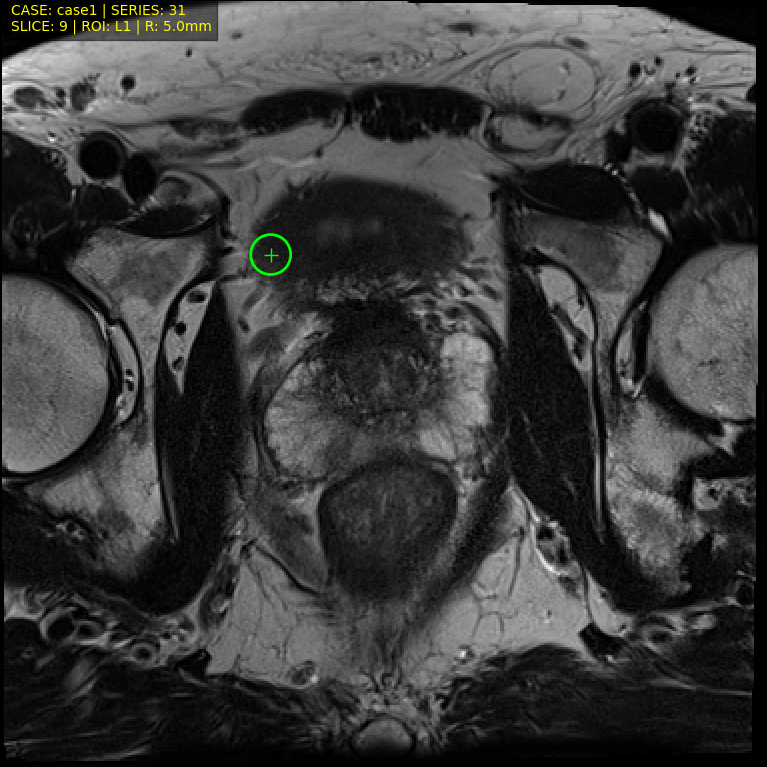
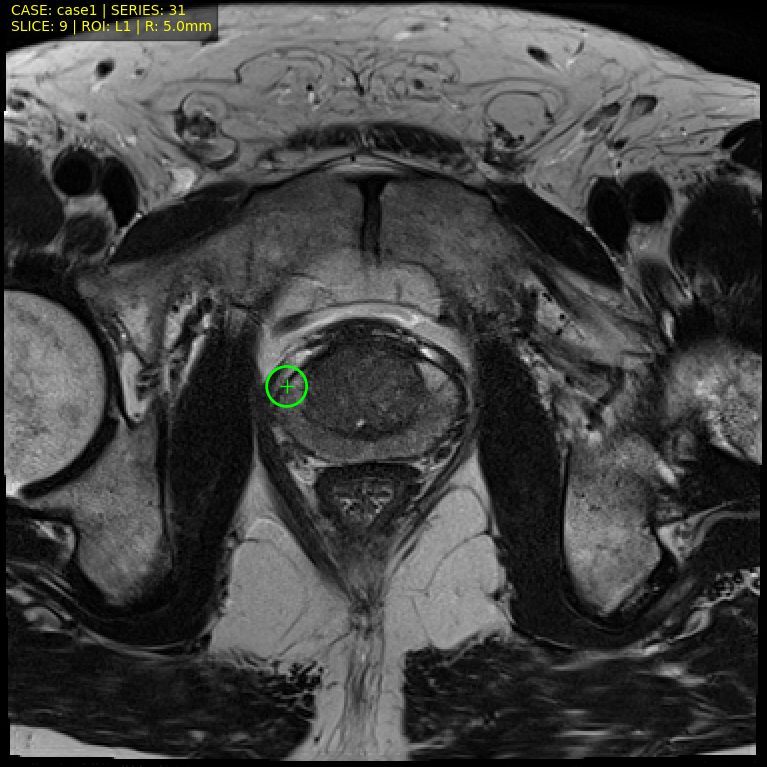
Versão 3 multi-planar e viewer, ambos melhorados

diff --git a/viewer/viewer_app.py b/viewer/viewer_app.py
@@ -153,6 +153,7 @@ class ViewerApp:
         self.ax_sag = None
         self.ax_cor = None
         self.ax_info = None
+        self.ax_sidebar = None
         self.ax = None
         
         # Export Info
@@ -663,18 +664,25 @@ class ViewerApp:
         plt.rcParams['keymap.quit'] = ''
 
         self.fig = plt.figure(figsize=(16, 10))
-        gs = self.fig.add_gridspec(2, 3, width_ratios=[1.15, 1.15, 0.70], height_ratios=[1.05, 1.00])
-        
-        self.ax_axial = self.fig.add_subplot(gs[0, 0])
-        self.ax_sag = self.fig.add_subplot(gs[0, 1])
-        self.ax_cor = self.fig.add_subplot(gs[1, 0:2])
-        self.ax_info = self.fig.add_subplot(gs[:, 2])
+        self.fig.patch.set_facecolor("#222222")
+        gs = self.fig.add_gridspec(2, 3, width_ratios=[1.0, 1.6, 1.6], height_ratios=[1.0, 1.0])
+
+        self.ax_sidebar = self.fig.add_subplot(gs[:, 0])
+        self.ax_axial = self.fig.add_subplot(gs[0, 1])
+        self.ax_info = self.fig.add_subplot(gs[0, 2])
+        self.ax_cor = self.fig.add_subplot(gs[1, 1])
+        self.ax_sag = self.fig.add_subplot(gs[1, 2])
         self.ax = self.ax_axial
-        
-        self.ax_axial.axis('off')
-        self.ax_sag.axis('off')
-        self.ax_cor.axis('off')
-        self.ax_info.axis('off')
+
+        if self.ax_sidebar:
+            self.ax_sidebar.set_facecolor("#303030")
+            self.ax_sidebar.axis('off')
+        if self.ax_info:
+            self.ax_info.set_facecolor("#202020")
+            self.ax_info.axis('off')
+        for ax in [self.ax_axial, self.ax_cor, self.ax_sag]:
+            if ax:
+                ax.set_facecolor("black")
 
         # Desativar toolbar para evitar pan/zoom acidental
         self.fig.canvas.toolbar.pack_forget()
@@ -907,22 +915,43 @@ class ViewerApp:
         is_active = (plane == self.active_view)
         title_color = "yellow" if is_active else "white"
         if plane == "axial":
-            base_color = "#d32f2f"
+            base_color = "#d84a4a"
         elif plane == "sagittal":
-            base_color = "#fbc02d"
+            base_color = "#f1c40f"
         else:
-            base_color = "#388e3c"
+            base_color = "#4caf50"
+        label = name
+        if self.np_vol is not None:
+            sz_k, sz_j, sz_i = self.np_vol.shape
+            i, j, k = self.center_voxel
+            if plane == "axial":
+                pos = int(max(0, min(k, sz_k - 1))) + 1
+                total = sz_k
+                label = f"{name} k={pos}/{total}"
+            elif plane == "coronal":
+                pos = int(max(0, min(j, sz_j - 1))) + 1
+                total = sz_j
+                label = f"{name} j={pos}/{total}"
+            else:
+                pos = int(max(0, min(i, sz_i - 1))) + 1
+                total = sz_i
+                label = f"{name} i={pos}/{total}"
+        else:
+            label = f"{name} [NO DATA]"
         ax.set_title(
-            name,
+            label,
             fontsize=10,
             color=title_color,
             fontfamily="monospace",
-            bbox=dict(facecolor=base_color, alpha=0.85, edgecolor="none", boxstyle="round,pad=0.3"),
+            bbox=dict(facecolor=base_color, alpha=0.9, edgecolor="none", boxstyle="round,pad=0.3"),
             loc="center",
         )
-        for sp in ax.spines.values():
+        for side, sp in ax.spines.items():
             sp.set_linewidth(1.5 if is_active else 1.0)
-            sp.set_edgecolor("yellow" if is_active else "#444")
+            if side == "top":
+                sp.set_edgecolor(base_color)
+            else:
+                sp.set_edgecolor("yellow" if is_active else "#444")
 
     def _draw_crosshair(self, ax, plane):
         if self.np_vol is None or self.meta is None:
@@ -1088,16 +1117,29 @@ class ViewerApp:
     def update_plot(self):
         if self.fig is None:
             return
-
         if self.ax_axial:
             self.ax_axial.clear()
+            self.ax_axial.set_facecolor("black")
+            self.ax_axial.set_xticks([])
+            self.ax_axial.set_yticks([])
         if self.ax_sag:
             self.ax_sag.clear()
+            self.ax_sag.set_facecolor("black")
+            self.ax_sag.set_xticks([])
+            self.ax_sag.set_yticks([])
         if self.ax_cor:
             self.ax_cor.clear()
+            self.ax_cor.set_facecolor("black")
+            self.ax_cor.set_xticks([])
+            self.ax_cor.set_yticks([])
         if self.ax_info:
             self.ax_info.clear()
+            self.ax_info.set_facecolor("#202020")
             self.ax_info.axis('off')
+        if hasattr(self, "ax_sidebar") and self.ax_sidebar:
+            self.ax_sidebar.clear()
+            self.ax_sidebar.set_facecolor("#303030")
+            self.ax_sidebar.axis('off')
 
         if self.np_vol is not None:
             sz_k, sz_j, sz_i = self.np_vol.shape
@@ -1106,24 +1148,21 @@ class ViewerApp:
             j = int(max(0, min(j, sz_j - 1)))
             k = int(max(0, min(k, sz_k - 1)))
             self._set_center_voxel(i, j, k)
-
             self._render_mpr_view(self.ax_axial, "axial")
             self._render_mpr_view(self.ax_sag, "sagittal")
             self._render_mpr_view(self.ax_cor, "coronal")
-            self._style_panel(self.ax_axial, "axial")
-            self._style_panel(self.ax_sag, "sagittal")
-            self._style_panel(self.ax_cor, "coronal")
 
-        # HUD
+        self._style_panel(self.ax_axial, "axial")
+        self._style_panel(self.ax_sag, "sagittal")
+        self._style_panel(self.ax_cor, "coronal")
+
         case_name = self.cases_list[self.current_case_idx] if self.cases_list else "None"
-        
         if self.mode == "SERIES_SELECT":
             mode_str = f"GO TO SERIES: {self.series_input_str}_ (Enter confirm, Esc cancel)"
         elif self.mode == "CASE_SELECT":
             mode_str = f"GO TO PATIENT: {self.case_input_str}_ (Enter confirm, Esc cancel)"
         else:
             mode_str = "LOCKED" if self.is_locked else "PREVIEW"
-            
         if self.series_list and self.current_series_idx < len(self.series_list):
             s = self.series_list[self.current_series_idx]
             cv_i, cv_j, cv_k = self.center_voxel
@@ -1132,7 +1171,6 @@ class ViewerApp:
         else:
             line1 = f"CASE: {case_name} | NO SERIES LOADED"
             line2 = f"MODE: {mode_str}"
-        
         hud_text = f"{line1}\n{line2}"
         if self.last_message:
             hud_text += f"\nLAST: {self.last_message}"
@@ -1175,24 +1213,16 @@ class ViewerApp:
         elif self.toast_message and time.time() >= self.toast_until:
             self.toast_message = None
 
-        # Painel Direito (Cases, Series & ROIs)
         total_series_pages = (len(self.series_list) - 1) // self.series_per_page + 1 if self.series_list else 0
-        
-        info_panel_text = ""
-        if self.show_help:
-            info_panel_text += self._get_help_text() + "\n\n"
-        
-        # Seção PATIENTS (Sempre mostrar se existirem)
+        sidebar_text = ""
         if self.cases_list:
-            info_panel_text += "=== PATIENTS ===\n"
+            sidebar_text += "=== PATIENTS ===\n"
             for i, c in enumerate(self.cases_list):
                 mark = ">" if i == self.current_case_idx else " "
-                info_panel_text += f"{mark}[{i+1}] {c[:15]}\n"
-            info_panel_text += "\n"
-
-        # Seção T2 QUICK
+                sidebar_text += f"{mark}[{i+1}] {c[:15]}\n"
+            sidebar_text += "\n"
         if self.series_list:
-            info_panel_text += "=== T2 QUICK ===\n"
+            sidebar_text += "=== T2 QUICK ===\n"
             for orient in ['axial', 'coronal', 'sagittal']:
                 idx = self.t2_quick[orient]
                 mark = ">" if idx == self.current_series_idx and idx is not None else " "
@@ -1200,39 +1230,72 @@ class ViewerApp:
                 key = key_map[orient]
                 if idx is not None:
                     name = self.series_list[idx]['series_name'][:12]
-                    info_panel_text += f"{mark}({key}) {orient[:3].upper()}: {name}\n"
+                    sidebar_text += f"{mark}({key}) {orient[:3].upper()}: {name}\n"
                 else:
-                    info_panel_text += f"   ({key}) {orient[:3].upper()}: -\n"
-            info_panel_text += "\n"
-
-            # Seção SERIES
-            info_panel_text += f"=== SERIES ({self.series_page+1}/{total_series_pages}) ===\n"
+                    sidebar_text += f"   ({key}) {orient[:3].upper()}: -\n"
+            sidebar_text += "\n"
+            sidebar_text += f"=== SERIES ({self.series_page+1}/{total_series_pages}) ===\n"
             start_idx = self.series_page * self.series_per_page
             end_idx = min(start_idx + self.series_per_page, len(self.series_list))
-            
             for i in range(start_idx, end_idx):
                 ser = self.series_list[i]
                 mark = ">" if i == self.current_series_idx else " "
-                info_panel_text += f"{mark}[{i+1}] {ser['series_name'][:12]} ({ser['orientation'][0].upper()})\n"
-            
-            info_panel_text += "\nUse [ ] to page\n"
-        
-        # Seção ROIs
-        info_panel_text += "\n=== ROIs ===\n"
+                sidebar_text += f"{mark}[{i+1}] {ser['series_name'][:12]} ({ser['orientation'][0].upper()})\n"
+            sidebar_text += "\nUse [ ] to page\n"
+        sidebar_text += "\n=== ROIs ===\n"
         if not self.rois:
-            info_panel_text += "Nenhuma ROI.\n"
+            sidebar_text += "Nenhuma ROI.\n"
         else:
             for roi in self.rois:
                 lid = roi["id"]
                 status = self.roi_status.get(lid, "??")
-                info_panel_text += (
+                sidebar_text += (
                     f"{lid} | S:{roi['center_voxel'][2]} | R:{roi['radius_mm']:.1f} | {status}\n"
                     f"  Pos:({roi['center_voxel'][0]},{roi['center_voxel'][1]})\n"
                 )
-
+        sidebar_text += "\n=== PREDICOES ===\n"
+        if self.show_predictions_panel and self.last_preds:
+            for p in self.last_preds:
+                lesion = p.get("lesion", "?")
+                perc = p.get("risk_percent", p.get("prob_pos", 0.0) * 100.0)
+                cat = p.get("risk_category", "")
+                label = p.get("pred_label", "")
+                sidebar_text += f"{lesion}: {perc:.0f}% ({cat}) -> {label}\n"
+        else:
+            sidebar_text += "Nenhuma.\n"
+        sidebar_text += "\n=== GT ===\n"
         if self.show_gt:
-            info_panel_text += "\n=== GABARITO (GT) ===\n"
-            info_panel_text += f"case_name={self.cases_list[self.current_case_idx]}\n"
+            sidebar_text += f"ON ({len(self.gt_lesions)} lesoes)\n"
+        else:
+            sidebar_text += "OFF\n"
+        if self.show_help:
+            sidebar_text += "\n" + self._get_help_text()
+        if hasattr(self, "ax_sidebar") and self.ax_sidebar:
+            self.ax_sidebar.text(
+                0.02,
+                0.98,
+                sidebar_text,
+                transform=self.ax_sidebar.transAxes,
+                verticalalignment="top",
+                family="monospace",
+                fontsize=8,
+                color="white",
+            )
+
+        info_panel_text = ""
+        if self.series_list and self.current_series_idx < len(self.series_list):
+            s = self.series_list[self.current_series_idx]
+            info_panel_text += f"CASE: {case_name}\n"
+            info_panel_text += f"SERIES: {s['series_name']} ({s['orientation'].upper()})\n"
+        else:
+            info_panel_text += f"CASE: {case_name}\nNO SERIES LOADED\n"
+        info_panel_text += f"ROIs: {len(self.rois)}\n"
+        if self.show_predictions_panel and self.last_preds:
+            info_panel_text += f"PREDICOES: {len(self.last_preds)}\n"
+        if self.show_gt:
+            info_panel_text += f"GT lesions: {len(self.gt_lesions)}\n"
+        if self.show_gt:
+            info_panel_text += "\nGT DETAIL:\n"
             info_panel_text += f"patient_id_resolved={self.gt_patient_id or 'None'}\n"
             info_panel_text += f"labels_source={self.gt_label_source or 'None'}\n"
             if not self.gt_lesions:
@@ -1258,34 +1321,14 @@ class ViewerApp:
                         any_proj = True
                     else:
                         any_oob = True
-                    ggg = lesion.get("ggg")
-                    isup = lesion.get("isup")
-                    clinsig = lesion.get("clinsig")
-                    zone = lesion.get("zone")
                     lid = lesion.get("lesion_id") or f"L{idx}"
-                    src = lesion.get("source")
-                    parts = [f"{lid}:"]
-                    if ggg or isup:
-                        parts.append(f"GGG={ggg or '-'} ISUP={isup or '-'}")
-                    if clinsig is not None:
-                        parts.append(f"ClinSig={clinsig}")
-                    if zone is not None:
-                        parts.append(f"zone={zone}")
-                    parts.append(f"xyz=({x:.1f},{y:.1f},{z:.1f})")
-                    parts.append(f"voxel=({vi_int},{vj_int},{vk_int})")
-                    parts.append(f"slice={vk_int}")
-                    parts.append(f"in_bounds={str(in_bounds).lower()}")
-                    line = " | ".join(parts)
-                    if src:
-                        line += f" | source={src}"
-                    info_panel_text += line + "\n"
+                    info_panel_text += f"{lid}: voxel=({vi_int},{vj_int},{vk_int}) slice={vk_int} in_bounds={str(in_bounds).lower()}\n"
                 if not any_proj:
                     info_panel_text += "GT coords nao projetaveis\n"
                 if any_oob:
-                    info_panel_text += "GT fora do volume desta serie (possivel mismatch: labels referem outra serie/orientacao).\n"
-
+                    info_panel_text += "GT fora do volume desta serie.\n"
         if self.show_gt and self.rois and self.gt_lesions:
-            info_panel_text += "\n=== ROI vs GT ===\n"
+            info_panel_text += "\nROI vs GT:\n"
             for roi in self.rois:
                 best = None
                 for lesion in self.gt_lesions:
@@ -1298,21 +1341,29 @@ class ViewerApp:
                     if best is None or dist < best[0]:
                         best = (dist, lesion)
                 if best is not None:
-                    dist_mm, lesion = best
+                    dist_mm, _ = best
                     status = "PERTO" if dist_mm <= self.gt_threshold_mm else "LONGE"
                     info_panel_text += f"{roi['id']} -> {dist_mm:.1f} mm ({status})\n"
-
-        if self.show_predictions_panel and self.last_preds:
-            info_panel_text += "\n=== PREDIÇÕES ===\n"
-            for p in self.last_preds:
-                lesion = p.get("lesion", "?")
-                perc = p.get("risk_percent", p.get("prob_pos", 0.0) * 100.0)
-                cat = p.get("risk_category", "")
-                label = p.get("pred_label", "")
-                info_panel_text += f"{lesion}: {perc:.0f}% ({cat}) -> {label}\n"
-        
-        self.ax_info.text(0.05, 0.98, info_panel_text, transform=self.ax_info.transAxes,
-                         verticalalignment='top', family='monospace', fontsize=8)
+        status_flags = []
+        if self.last_export_dir:
+            status_flags.append("Export OK")
+        if self.last_preds:
+            status_flags.append("Model OK")
+        if self.show_gt and self.gt_lesions:
+            status_flags.append("GT OK")
+        if status_flags:
+            info_panel_text += "\nStatus: " + ", ".join(status_flags) + "\n"
+        if self.ax_info:
+            self.ax_info.text(
+                0.05,
+                0.95,
+                info_panel_text,
+                transform=self.ax_info.transAxes,
+                verticalalignment='top',
+                family='monospace',
+                fontsize=8,
+                color="white",
+            )
 
         self.fig.canvas.draw_idle()
 
